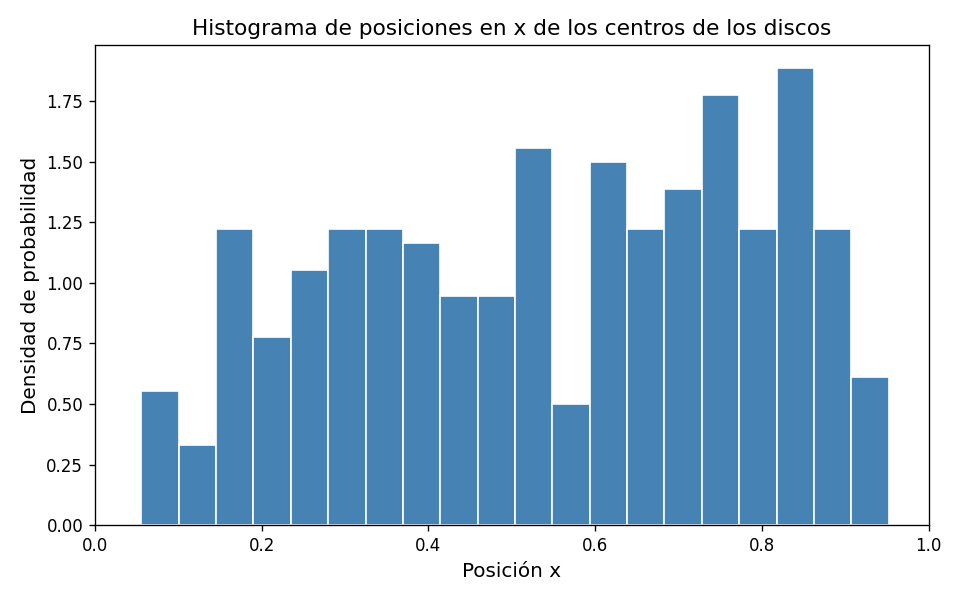
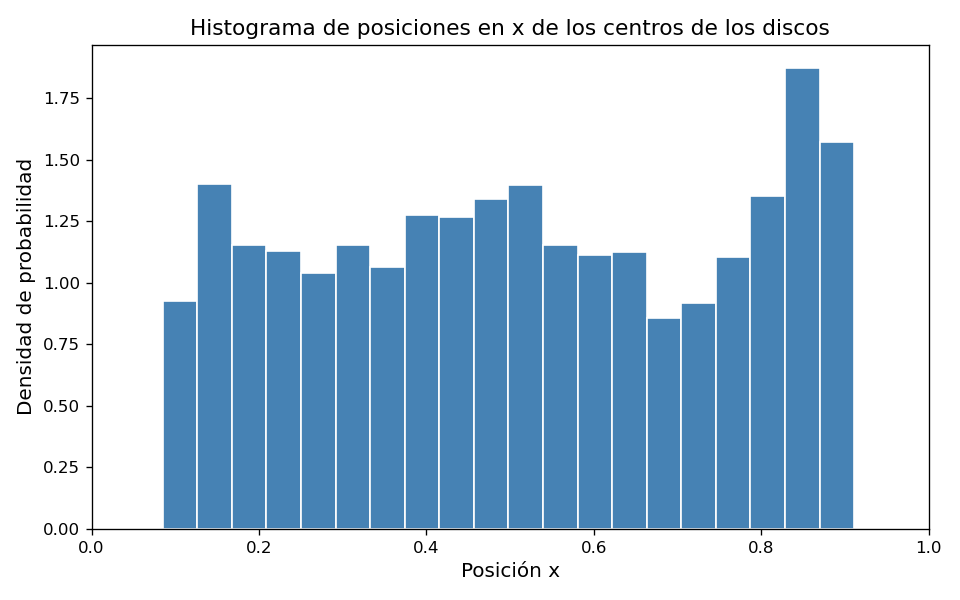
Fixed particles getting stucked together

Changed region(s): [[0.0, 0.06, 1.0, 0.93], [0.1875, 0.03, 0.875, 0.06], [0.4688, 0.93, 0.5938, 0.96]]

diff --git a/main.py b/main.py
@@ -23,6 +23,8 @@ def colision(particle1, particle2):
 
     The calculation is based on the equation found in:
     https://en.wikipedia.org/wiki/Elastic_collision#Two-dimensional_collision_with_two_moving_objects
+    It additionally verifies that the particles are moving towards each other, and otherwise does not
+    modify their velocities
 
     Args:
         particle1: First particle whose velocity to modify
@@ -32,8 +34,10 @@ def colision(particle1, particle2):
     # Constants required for calculation
     a = (particle1.velX-particle2.velX)*(particle1.posX-particle2.posX) \
         + (particle1.velY-particle2.velY)*(particle1.posY-particle2.posY)
+    if a>0: return
     b = (particle1.posX-particle2.posX)**2 + (particle1.posY-particle2.posY)**2
 
+    
     particle1.velX -= (particle1.posX-particle2.posX)*a/b
     particle1.velY -= (particle1.posY-particle2.posY)*a/b
     particle2.velX -= (particle2.posX-particle1.posX)*a/b
@@ -83,8 +87,9 @@ def save_frame(particles, t, frame_num, output_dir=None):
 
 t = 0
 tf = 20
-dt = 0.1
-particles = [Particle([0.25,0.25]), Particle([0.75,0.75])]
+dt = 0.02
+particles = [Particle([0.25,0.25]), Particle([0.75,0.75]),
+             Particle([0.25,0.75]), Particle([0.75,0.25])]
 x_register = [p.posX for p in particles]
 frame_num = 0
 save_frame(particles, t, frame_num)
@@ -132,5 +137,5 @@ print("Histograma guardado: histogram_pos_x.png")
 # Gif
 paths = sorted(glob.glob(os.path.join(code_dir, 'frames', 'frame_*.png')))
 frames_gif = [Image.open(p).convert('RGB') for p in paths]
-frames_gif[0].save(os.path.join(code_dir, 'simulation.gif'), save_all=True, append_images=frames_gif[1:], duration=80, loop=0)
+frames_gif[0].save(os.path.join(code_dir, 'simulation.gif'), save_all=True, append_images=frames_gif[1:], duration=dt*1000, loop=0)
 print(f"Gif guardado: simulation.gif")